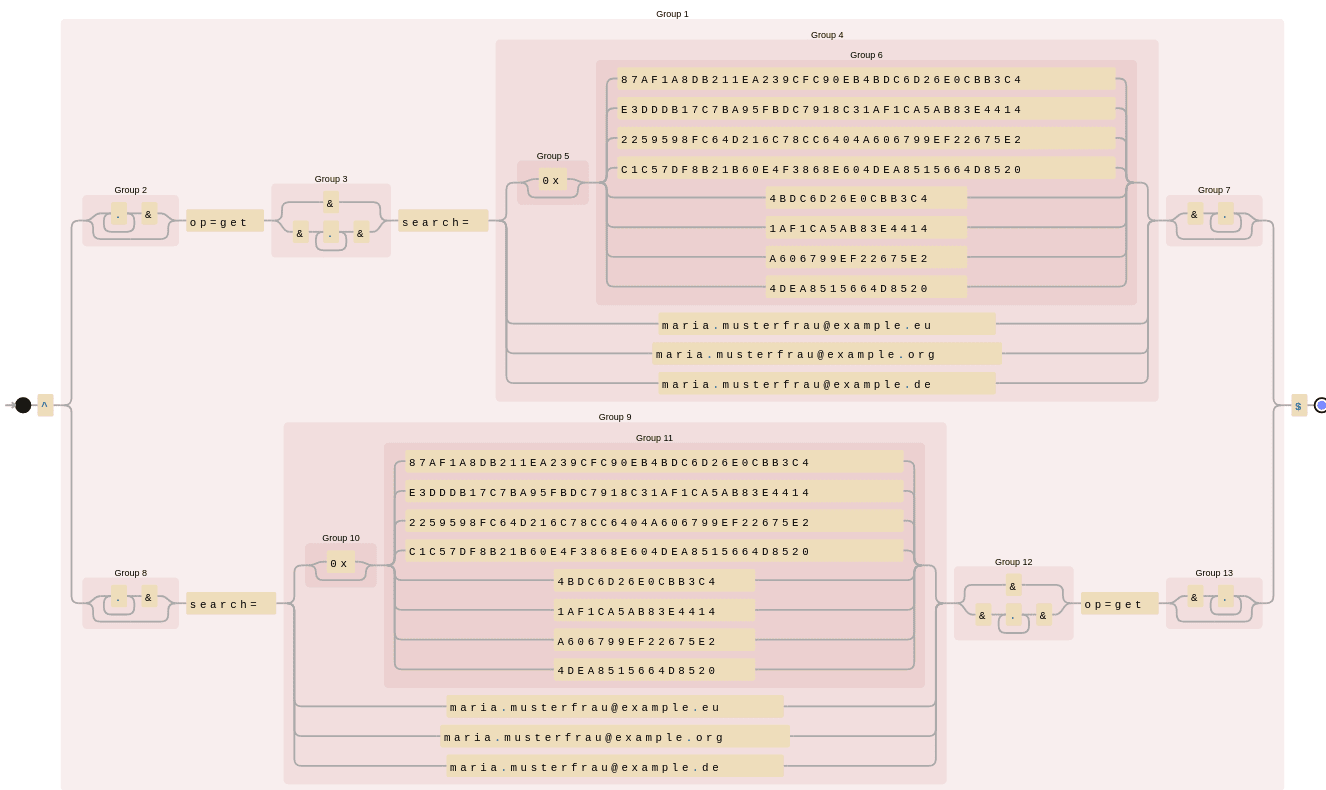
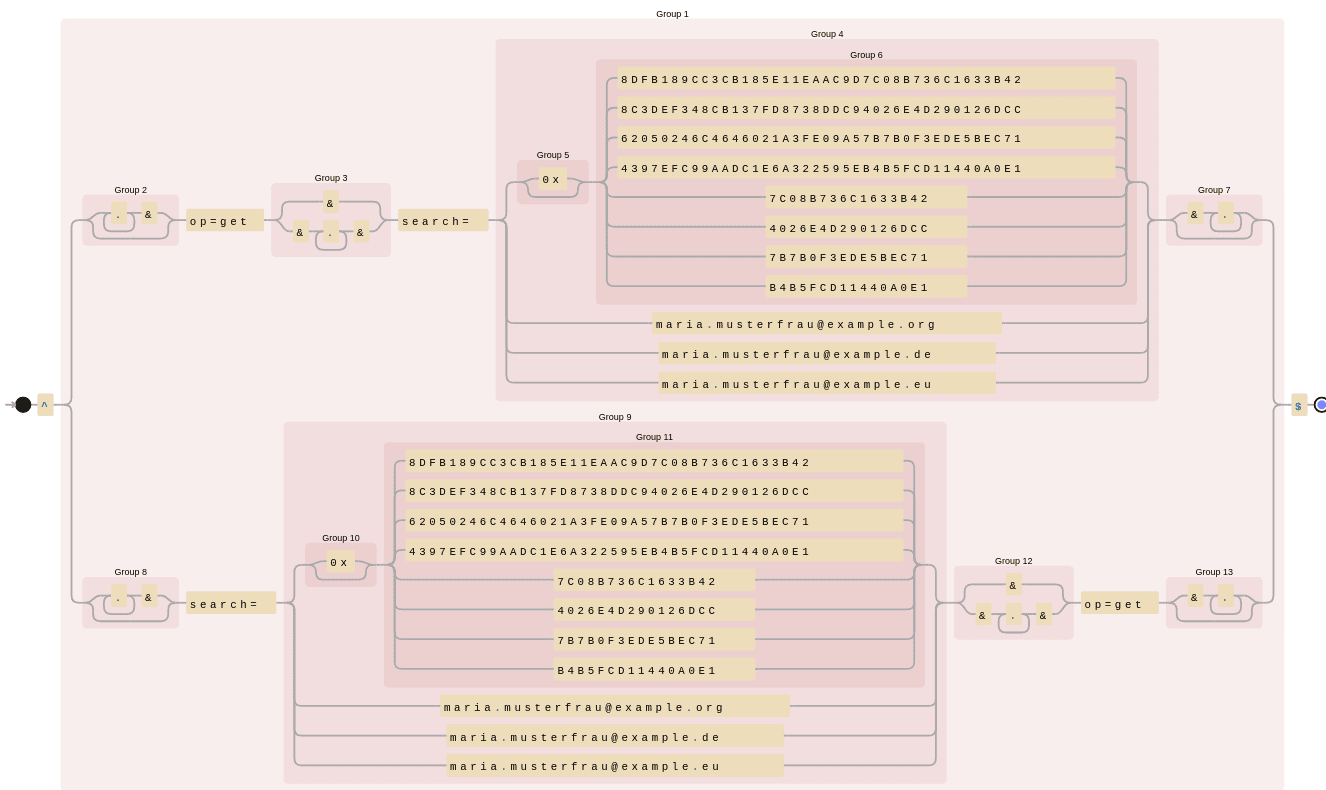
Add sample script output; update screenshot

diff --git a/README.md b/README.md
@@ -16,6 +16,37 @@ To indent using tabs:
 $ bash hkps2nginx.sh -l pubkey.asc -r /var/www/keys/ | sed 's/    /\t/g' | sed 's/^\([^$]\)/\t\t\1/'
 ```
 
+Sample `bash hkps2nginx.sh -l pubkey.asc -r /var/www/keys/` output:
+
+```bash
+location ~ "^/([A-F0-9]{40})\.asc$" {
+    add_header content-disposition "attachment; filename=$1.asc";
+    default_type application/pgp-keys;
+    root /var/www/keys/;
+}
+
+location = /pks/lookup {
+
+    if ($query_string !~ "^(.+&op=get&.+|.+&op=get|op=get&.+)$") {
+        return 501;
+    }
+
+    if ($query_string !~ "^(.+&search=.+&.+|.+&search=.+|search=.+&.+)$") {
+        return 501;
+    }
+
+    if ($query_string ~* "^((.+&|)op=get(&|&.+&)search=((0x|)(8DFB189CC3CB185E11EAAC9D7C08B736C1633B42|8C3DEF348CB137FD8738DDC94026E4D290126DCC|62050246C4646021A3FE09A57B7B0F3EDE5BEC71|4397EFC99AADC1E6A322595EB4B5FCD11440A0E1|7C08B736C1633B42|4026E4D290126DCC|7B7B0F3EDE5BEC71|B4B5FCD11440A0E1)|maria.musterfrau@example.org|maria.musterfrau@example.de|maria.musterfrau@example.eu)(&.+|)|(.+&|)search=((0x|)(8DFB189CC3CB185E11EAAC9D7C08B736C1633B42|8C3DEF348CB137FD8738DDC94026E4D290126DCC|62050246C4646021A3FE09A57B7B0F3EDE5BEC71|4397EFC99AADC1E6A322595EB4B5FCD11440A0E1|7C08B736C1633B42|4026E4D290126DCC|7B7B0F3EDE5BEC71|B4B5FCD11440A0E1)|maria.musterfrau@example.org|maria.musterfrau@example.de|maria.musterfrau@example.eu)(&|&.+&)op=get(&.+|))$") {
+        return 301 /8DFB189CC3CB185E11EAAC9D7C08B736C1633B42.asc;
+    }
+
+    if ($query_string ~* "^((.+&|)op=get(&|&.+&)search=((0x|)(EB4C43523D4D115FC3819DB0B4E73D7875EAECEF|0B33887A90261BBD0770974A93C54FB4E75F996E|7EB84A3614483BB36E0DAB458DC7A31A1E2268F1|3B2445AB428E0BE4BB55D59253728297B1A6C888|B4E73D7875EAECEF|93C54FB4E75F996E|8DC7A31A1E2268F1|53728297B1A6C888)|work@example.org)(&.+|)|(.+&|)search=((0x|)(EB4C43523D4D115FC3819DB0B4E73D7875EAECEF|0B33887A90261BBD0770974A93C54FB4E75F996E|7EB84A3614483BB36E0DAB458DC7A31A1E2268F1|3B2445AB428E0BE4BB55D59253728297B1A6C888|B4E73D7875EAECEF|93C54FB4E75F996E|8DC7A31A1E2268F1|53728297B1A6C888)|work@example.org)(&|&.+&)op=get(&.+|))$") {
+        return 301 /EB4C43523D4D115FC3819DB0B4E73D7875EAECEF.asc;
+    }
+
+    return 404;
+}
+```
+
 You can visualise the regex in the `if` condition at [Debuggex](https://www.debuggex.com/). Example:
 
 ![Debuggex](assets/debuggex.png)
